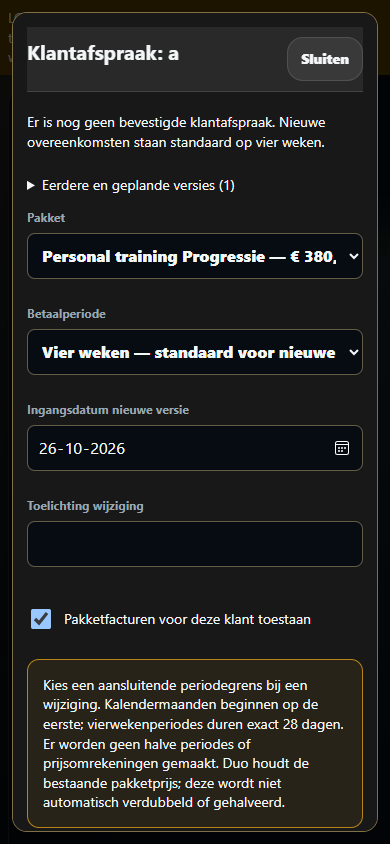
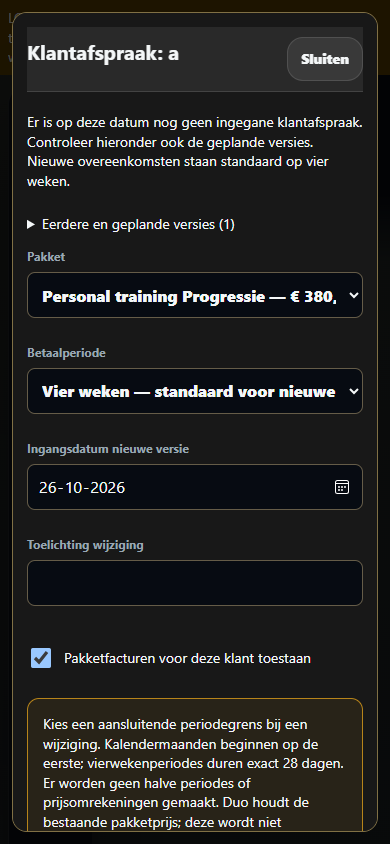
Keep client billing controls within phone and desktop layouts

diff --git a/billing-ui.js b/billing-ui.js
@@ -4,7 +4,7 @@ window.FMZBilling=(()=>{
  const versions=id=>(FMZAccounting.snapshot?.agreements||[]).filter(v=>v.client_id===id),get=(id,at=today())=>B.active(versions(id),id,at);
  function allowed(){if(!FMZAccounting.ready)throw Error('Alleen de geverifieerde owner kan klantafspraken beheren.');}
  const field=(name,title,value,type='text')=>`<label class="field"><span>${esc(title)}</span><input name="${name}" type="${type}" value="${esc(value)}" required></label>`;
- const select=(name,title,options,value)=>`<label class="field"><span>${esc(title)}</span><select name="${name}">${options.map(([id,label])=>`<option value="${id}" ${id===value?'selected':''}>${esc(label)}</option>`).join('')}</select></label>`;
+ const select=(name,title,options,value)=>`<label class="field"><span>${esc(title)}</span><select name="${name}">${options.map(([id,label])=>`<option value="${esc(id)}" ${id===value?'selected':''}>${esc(label)}</option>`).join('')}</select></label>`;
  const note=v=>v.cycle==='four_weeks'?'Facturatie iedere 4 weken (28 dagen), 13 betaalperiodes per jaar. De cyclus loopt zonder reset door over de jaargrens.':v.cycle==='calendar_month'?'Serviceperiode: eerste tot en met laatste dag van de maand. Factuurdatum standaard aan het einde van de maand.':'Geen terugkerende betaalperiode.';
  function summary(v,at=today()){
   if(!v)return '<p>Er is op deze datum nog geen ingegane klantafspraak. Controleer hieronder ook de geplande versies. Nieuwe overeenkomsten staan standaard op vier weken.</p>';

diff --git a/styles.css b/styles.css
@@ -5983,6 +5983,13 @@ body.light .acc-dialog header,body.light .acc-dialog .acc-actions{background:#f7
 body.accounting-mode .topbar{position:relative;top:auto;display:flex;flex-wrap:wrap;min-width:0}
 body.accounting-mode .topbar-controls{flex-wrap:wrap;min-width:0;max-width:100%}
 body.accounting-mode .topbar-search{min-width:0;max-width:100%}
+/* The client agreement screen must also fit a long trainer name and all header controls. */
+body.trainer-mode:has(#clients.active) .topbar{display:flex;flex-wrap:wrap;min-width:0}
+body.trainer-mode:has(#clients.active) .topbar-controls{flex-wrap:wrap;min-width:0;max-width:100%}
+body.trainer-mode:has(#clients.active) .topbar-search{min-width:0;max-width:100%}
+#clients .client-grid{grid-template-columns:repeat(auto-fill,minmax(min(220px,100%),1fr))}
+#clients .client-card{min-width:0;overflow-wrap:anywhere}
+#clients .goal-save-actions{flex-wrap:wrap}
 @media(min-width:761px) and (max-width:1100px){
  body.accounting-mode .app-shell{display:block;padding-bottom:0}
  body.accounting-mode .sidebar{position:relative;top:auto;left:auto;right:auto;bottom:auto;width:auto;height:auto;margin:8px;padding:8px;border-radius:14px}

diff --git a/index.html b/index.html
@@ -4,7 +4,7 @@
     <meta charset="utf-8" />
     <meta name="viewport" content="width=device-width, initial-scale=1" />
     <title>Fit Met Zorge Coach App</title>
-    <link rel="stylesheet" href="styles.css?v=20260913-invoice" />
+    <link rel="stylesheet" href="styles.css?v=20260924-billing" />
     <link rel="stylesheet" href="tutorial/host.css?v=20260914-course" />
   </head>
   <body class="logged-out">

diff --git a/tests/verify-billing-pdf.py b/tests/verify-billing-pdf.py
@@ -1,0 +1,24 @@
+"""Verify the actual public synthetic PDF examples, not only their source JSON."""
+from pathlib import Path
+import json
+from pypdf import PdfReader
+
+cases = {
+    "vier-weken": ["Per 4 weken (28 dagen)", "28-09-2026", "25-10-2026", "350,00", "289,26", "60,74", "30,00"],
+    "kalendermaand": ["Per kalendermaand", "01-10-2026", "31-10-2026", "180,00", "148,76", "31,24", "20,00"],
+}
+result = {}
+for name, expected in cases.items():
+    file = Path("docs/examples/billing-20260924") / (name + ".pdf")
+    assert file.read_bytes().startswith(b"%PDF-")
+    reader = PdfReader(file)
+    assert len(reader.pages) == 1
+    page = reader.pages[0]
+    assert abs(float(page.mediabox.width) - 595.28) < 0.1
+    assert abs(float(page.mediabox.height) - 841.89) < 0.1
+    text = " ".join(page.extract_text().split())
+    for value in expected:
+        assert value in text, f"{name}: missing {value}"
+    result[name] = {"pages": 1, "validA4PDF": True, "periodDiscountNetVATTotalFound": True}
+Path("docs/APPFMZ_BILLING_PDF_20260924.json").write_text(json.dumps(result, indent=2) + "\n", encoding="utf-8")
+print("PASS both actual A4 PDF contents: cycle, exact dates, discount, net, VAT and total")

diff --git a/docs/APPFMZ_BILLING_PERIODS_20260924.md b/docs/APPFMZ_BILLING_PERIODS_20260924.md
@@ -16,7 +16,7 @@ Status: migration toegepast en productie-API getest; frontendpublicatie en eindc
 
 ## Bestanden en databaseobjecten
 
-Nieuw: `billing-periods.js` (datumregels/catalogus), `billing-ui.js` (ownereditor), gerichte tests en verificatiescripts. Aangepast: `app.js`, `index.html`, `accounting.js`, `invoice-editor.js`, `invoice-documents.js` en bestaande testfixtures. `sync.js`, `autosave.js`, `photos.js`, stijlen, Edge Functions en cursusbestanden blijven ongewijzigd.
+Nieuw: `billing-periods.js` (datumregels/catalogus), `billing-ui.js` (ownereditor), gerichte tests en verificatiescripts. Aangepast: `app.js`, `index.html`, `accounting.js`, `invoice-editor.js`, `invoice-documents.js`, `styles.css` en bestaande testfixtures. `sync.js`, `autosave.js`, `photos.js`, Edge Functions en cursusbestanden blijven ongewijzigd.
 
 Nieuwe migration: `supabase/migrations/20260924133305_appfmz_billing_periods.sql`.
 
@@ -43,6 +43,8 @@ De volledige regressieset omvat 31 tests, waaronder opslag, privacy, workouts, v
 Nieuwe controles: maandlengtes 28/29/30/31, 28 opeenvolgende vierwekencycli over jaargrenzen, expliciete versies, maand/four-weeks-keuze, uitsluiting, behouden oud concept, korting en btw, deel-/restcredit, annulering, dubbele aanvraag, verloren antwoord met dezelfde request-ID, PT409 zonder herhaallus, re-login, byte-identieke private PDF en mobiel/desktop. Browsercontrole op 320/390/768/1400px en beide bestaande thema's; verborgen native selecties en A4-vergroten worden echt bediend.
 
 De nieuwe A4-voorbeelden zijn gerenderd en visueel gecontroleerd. Productie-API- en livebrowserresultaten worden na uitvoering toegevoegd; deze voorbereiding claimt die nog niet.
+
+Tijdens de live desktopcontrole kwam een bestaande te brede bovenbalk met de langere synthetische trainernaam aan het licht. De aangescherpte lokale controle vond daarnaast de minimale kaartbreedte en de vaste doelenknop op 320px. De CSS-correctie is beperkt tot het klantscherm: bovenbalk/knoppen mogen omslaan en kaarten passen binnen hun kolom. De afspraakeditor zelf en de PDF-layout zijn ongewijzigd. Alle vier breedtes hebben na correctie nul horizontale overloop; doelen-autosave krijgt een gerichte regressieherhaling.
 
 Vaste synthetische voorbeelden: [vier weken](examples/billing-20260924/vier-weken.pdf), [kalendermaand](examples/billing-20260924/kalendermaand.pdf), [mobiele afspraakeditor](examples/billing-20260924/afspraak-mobiel.png). De laatste browserherhaling na het vastzetten van de serviceperiode is eveneens PASS. Er staan geen echte klantgegevens in deze voorbeelden.
 
